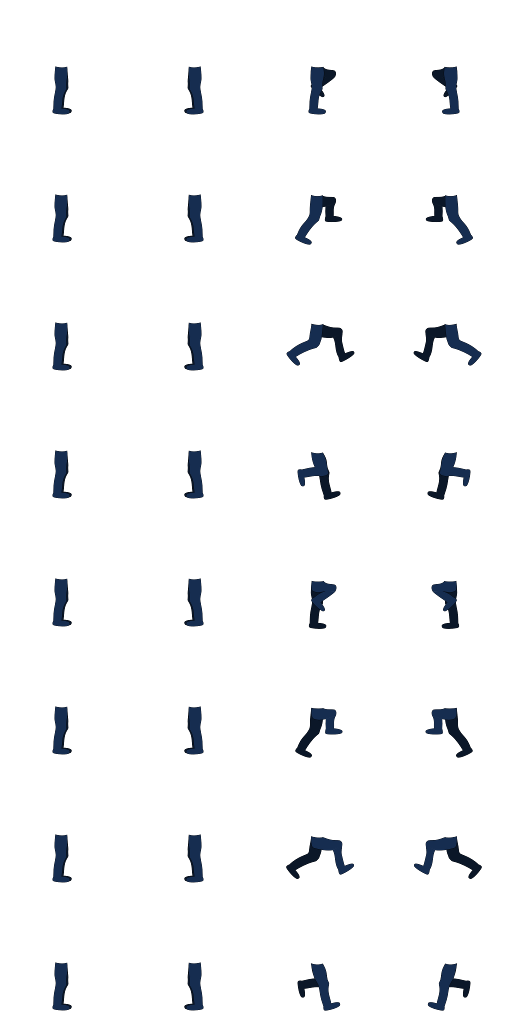
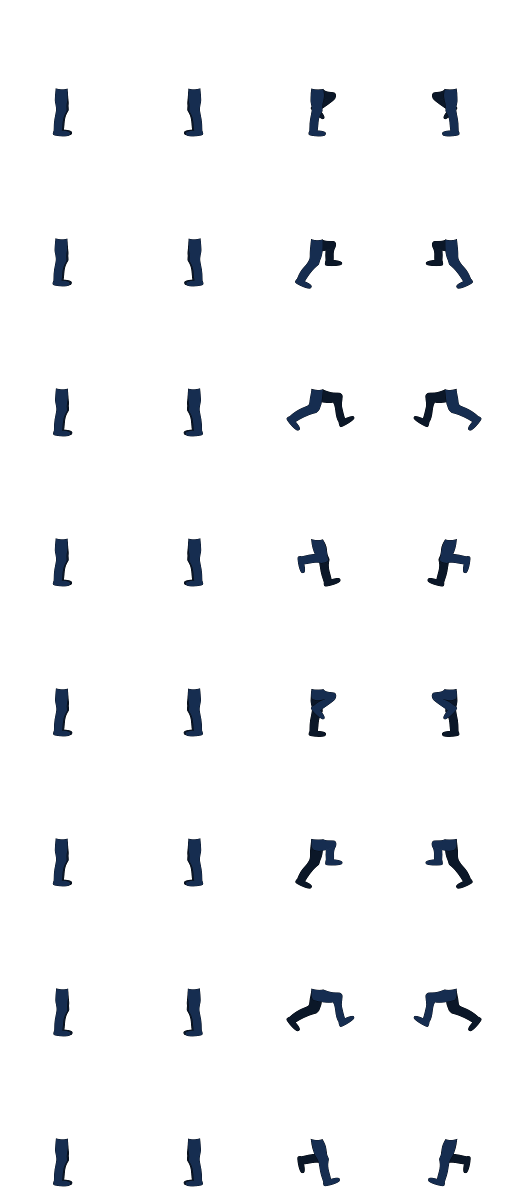
New images for player and grunt

diff --git a/src/game.cc b/src/game.cc
@@ -107,7 +107,8 @@ namespace feed
         Resources::instance().addImage("screen_bg", "data/piratesandfaggots.jpg");
         Resources::instance().addImage("menu_bg", "data/duke.bmp");
         Resources::instance().addImage("legs", "data/gfx/legs.png");
-        Resources::instance().addImage("torso", "data/gfx/torso.png");
+        Resources::instance().addImage("player-torso", "data/gfx/player-torso.png");
+        Resources::instance().addImage("grunt-torso", "data/gfx/grunt-torso.png");
         Resources::instance().addImage("fire", "data/gfx/fire.png");
         Resources::instance().addImage("fireball", "data/gfx/fireball.png");
 
